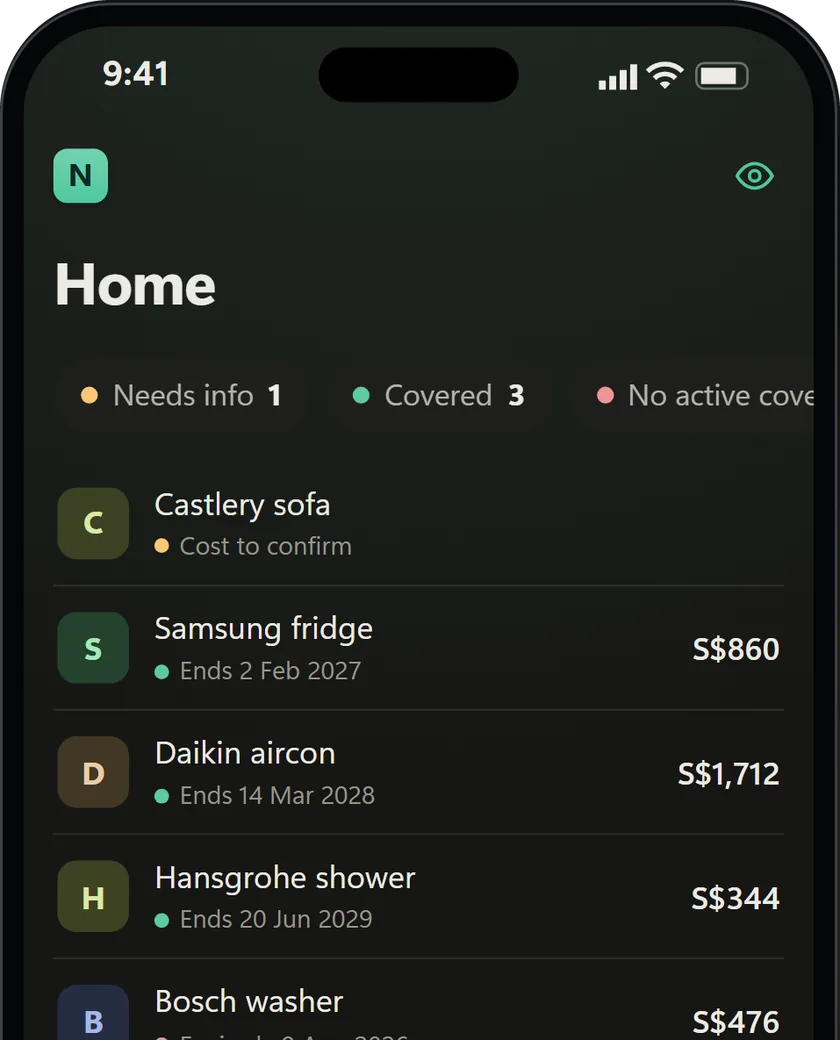
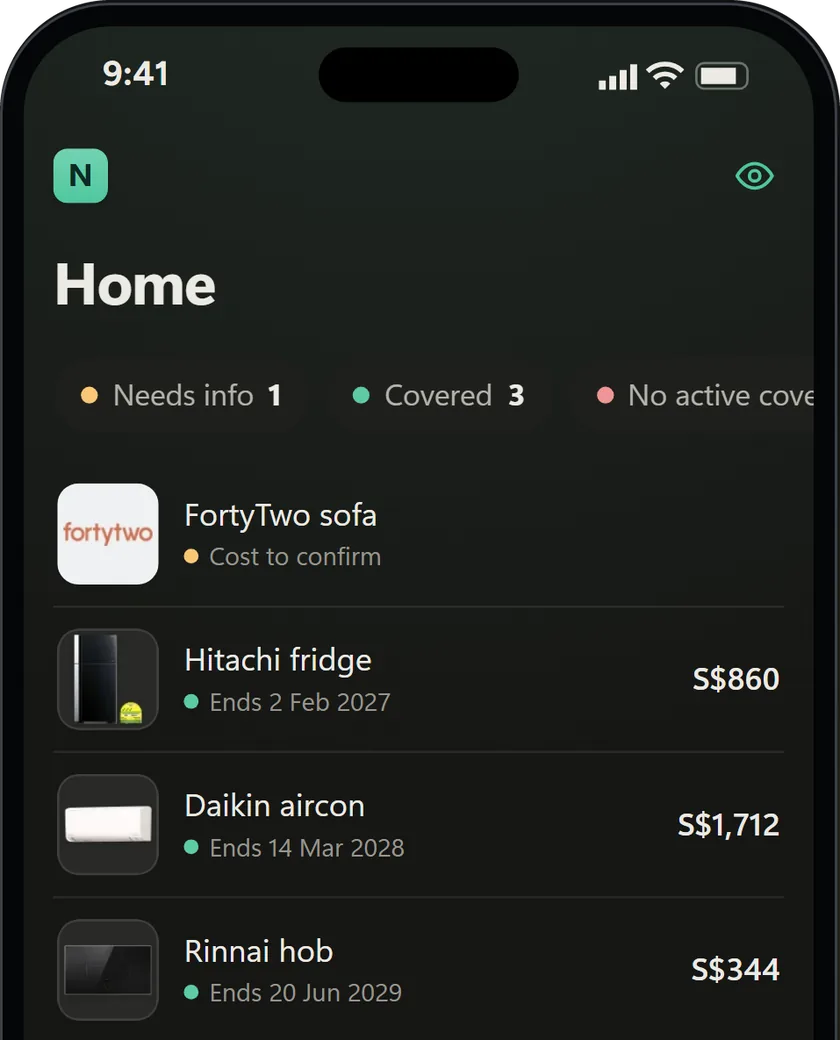
Finance demo: Home lists the owner's own brands with his tracker's pictures

diff --git a/assets/js/projects.js b/assets/js/projects.js
@@ -689,11 +689,11 @@ const ALL = CATS.concat(FLAG).flatMap(c => c.tx).sort((a, b) => b.day - a.day);
 /* Per person: premiums, cash %, policies, past, shortfall; cover needed and in force (S$k) for death, TPD, CI. */
 const INS = [[1296, 58, 4, '1 past', 'S$60k on critical illness', 240, 260, 240, 260, 120, 60], [872, 71, 3, 'none past', 'S$40k on death and S$40k on TPD', 160, 120, 160, 120, 100, 100]];
 /* Home register; state 1 needs info, 2 covered, 3 no active cover. */
-const HOME = rows('Castlery sofa|1|Cost to confirm|;Samsung fridge|2|Ends 2 Feb 2027|S$860;Daikin aircon|2|Ends 14 Mar 2028|S$1,712;Hansgrohe shower|2|Ends 20 Jun 2029|S$344;Bosch washer|3|Expired · 9 Aug 2026|S$476');
+const HOME = rows('FortyTwo sofa|1|Cost to confirm|;Hitachi fridge|2|Ends 2 Feb 2027|S$860;Daikin aircon|2|Ends 14 Mar 2028|S$1,712;Rinnai hob|2|Ends 20 Jun 2029|S$344;Bosch washer|3|Expired · 9 Aug 2026|S$476');
 
 const row = (attrs, cls, ico, title, sub, end, tag = 'button') => `<${tag} class="f-row ${cls}" ${attrs}><span class="f-ico">${icon(ico)}</span><span class="f-rt"><span>${title}</span><span>${sub}</span></span>${end}${tag < 'c' ? icon('right', 'f-chev') : ''}</${tag}>`;
 const info = (ico, title, sub, end) => row('', '', ico, title, sub, `<span class="f-rv">${end}</span>`, 'div');
-const LOGO = 'Grab Foodpanda Klook Steam SimplyGo Ya Trip'.split(' ');
+const LOGO = 'Grab Foodpanda Klook Steam SimplyGo Ya Trip FortyTwo Hitachi Daikin Rinnai Bosch'.split(' ');
 const line = (cls, who, sub, end, tag = 'div') => `<${tag} class="f-tr ${cls}"><span class="f-ini" style="--h:${[...who].reduce((a, ch) => (a * 31 + ch.charCodeAt(0)) % 360, 7)};--i:${LOGO.findIndex(n => who.startsWith(n))}" aria-hidden="true">${who[0]}</span><span class="f-tn"><span>${who}</span><span>${sub}</span></span><span class="f-ta">${end}</span></${tag.slice(0, 6)}>`;
 const txs = list => `<div>${list.map((r, i) =>
 	(i && list[i - 1].day === r.day ? '' : `<div class="f-day">${'Sun Mon Tue Wed Thu Fri Sat'.split(' ')[new Date(2026, 9, r.day).getDay()]} ${r.day} Oct</div>`) +

diff --git a/projects.html b/projects.html
@@ -206,7 +206,7 @@
 					</div>
 					<section class="app-more" aria-labelledby="finance-more"><h3 id="finance-more">More features.</h3><ul>
 						<li><p><strong>Where our cover falls short</strong>Our policies against rule-of-thumb cover for death, TPD and critical illness, shortfall first.</p><img src="images/projects/finance-insurance.webp" alt="Sample Insurance screen for Nicholas: cover short S$60k on critical illness. Death and TPD are covered; the critical illness bar is half full, short S$60,000." width="840" height="1040" loading="lazy" decoding="async"></li>
-						<li><p><strong>Every appliance and its warranty</strong>Each item&#8217;s cost and warranty end, with a missing price or receipt flagged.</p><img src="images/projects/finance-home.webp" alt="Sample Home register: one item needs info, three are covered, one has no active cover. A sofa&#8217;s cost is still to confirm; a fridge and an aircon show their warranty end dates and prices." width="840" height="1040" loading="lazy" decoding="async"></li>
+						<li><p><strong>Every appliance and its warranty</strong>Each item&#8217;s cost and warranty end, with a missing price or receipt flagged.</p><img src="images/projects/finance-home.webp" alt="Sample Home register: one item needs info, three are covered, one has no active cover. A FortyTwo sofa&#8217;s cost is still to confirm; a Hitachi fridge and a Daikin aircon show their pictures, warranty end dates and prices." width="840" height="1040" loading="lazy" decoding="async"></li>
 						<li><p><strong>Broker gains that tally</strong>Gains from the broker&#8217;s own statements, net of deposits; the import stops if they don&#8217;t add up.</p><img src="images/projects/finance-invest.webp" alt="Sample Investments screen: a S$51,360 portfolio up S$3,940 over the past year, with Interactive Brokers statements to 31 Oct 2026 marked numbers tally." width="840" height="1040" loading="lazy" decoding="async"></li>
 					</ul></section>
 				</article>

diff --git a/assets/css/projects.css b/assets/css/projects.css
@@ -489,6 +489,8 @@ to{box-shadow:0 0 0 9px #6ab2f200}
 .page-projects .f-finger{width:42px;height:42px;margin:-21px}
 .page-projects .f-day{background:#161614cc;-webkit-backdrop-filter:blur(16px);backdrop-filter:blur(16px)}
 .page-projects .f-ini:not([style*="i:-"]){background:#fff url(../../images/projects/finance-logos.webp) 0 calc(var(--i)*-34px)/34px;color:#0000}
+.page-projects .f-tr:is(.k1,.k2,.k3){grid-template-columns:48px minmax(0,1fr) auto}
+.page-projects :is(.k1,.k2,.k3)>.f-ini{height:48px;border-radius:10px;background-position:0 calc(var(--i)*-48px);background-size:48px;box-shadow:inset 0 0 0 1px #ffffff1a}
 .page-projects .f-cnt{display:flex;justify-content:space-between;align-items:baseline;margin-top:2px;color:var(--t3);font-size:13px;font-weight:600;text-transform:uppercase;letter-spacing:.04em}
 .page-projects .f-cnt b{color:var(--t);font-size:15px;text-transform:none;letter-spacing:0}
 .page-projects .sq-bk{width:70px;font-size:13px}

diff --git a/README.md b/README.md
@@ -284,7 +284,7 @@ Fragile behaviour the markup does not reveal. Read [`AGENTS.md`](AGENTS.md) firs
 - Desktop (981px and up) shows one project at a time (owner, 8 Nov 2026: "on desktop, shouldnt show all 4 projects at once. should show a carousell with a small animated thumbnail for those not in view"): a rail of four tabs (`.app-rail`, ARIA tabs, arrow/Home/End keys, `#id` deep links) sits above the chosen card, which puts a 90% phone beside its name and reasons. Each tab carries a thumbnail recorded from that demo's own preview; they play one at a time, in turn, and hovering a tab plays its own (owner: "all activating at once looks like a mess"); the playing one gets a ring in its app's accent. The carousel turns by itself (owner, 8 Nov 2026: "carousell should auto rotate to the next one"): a bar fills under the chosen tab (9, 8, 12.5 and 10 s, long enough for each preview and its result), pausing while the pointer is over the rail or card or the phone is not fully on screen; then the next app shows, its preview replays, and the next app's thumbnail plays as "up next". A tab click, arrow key, or a tap or key in a demo stops it for good; reduced motion never starts it (`images/projects/<app>.mp4`, 108x200 H.264, plus `-poster.webp`, per the site's MP4-plus-poster rule); the script attaches them on desktop only; reduced motion shows the posters. Phones keep all four cards stacked and download no thumbnails. Re-record the loops after changing a demo's preview (Playwright recordVideo of the phone at 2x, cropped and scaled with ffmpeg).
 - Each card opens with its kind, name and one-line description, then the demo, then three short reasons and the stack (8 Nov 2026: on phones the name used to arrive after a full phone of demo). On desktop the card's phone is scaled by `--ps` on `.app-grid` (owner, 8 Nov 2026: "the phones are way too big and need to scroll too much"). The skip link jumps past the demo to the reasons. Reasons state a decision, in plain first person where it fits, and must stay true to each app's own README; each bot carries one security or AI decision (IDs, not usernames; the AI suggests, a tap decides). Every app's reasons say why it beats what people already use, not how it works (owner, 9 Nov 2026: "nagbot features writeup on top is bad.. think harder of the benefits compared to other reminder apps. do the same for the rest"; earlier: "the value of the features are not there"): SquashBot against polls plus Splitwise (book by typing it; Splitwise without the typing; no app or account to join, with the Telegram-ID rule), Nag-bot against reminder apps (nags until it's done, quiet overnight; shared and fair, rotating chores to whoever did least; the AI suggests and a tap decides), Finance against aggregator and bank apps (no bank logins handed out, with read-only phones; catches card testing; every statement in one command), Packing against a checklist (counts that scale with the trip; Last call; two screens with no lost ticks). Each second line stays at about 70 characters so it holds one line at 1280px (owner: "brevity"). Finance leads with security, detection and automation (owner, 8 Nov 2026: "the selling point of totals dont add up is so lame"). Kind lines say Self-hosted, never "Runs on my PC" (owner: "sounds lame").
 - Each card has a working 300 x 560 sample demo (300 x 640 on desktop, nearer a real iPhone's shape now that one shows at a time; owner, 8 Nov 2026), a reset button and three short reasons. No app data files or real household/group details ship, with two exceptions: the owner's partner appears by her Telegram name DodgerBlueee in SquashBot (the visitor books as her) and on Nag-bot's leaderboard beside Nicholas (owner, 9 Nov 2026: "leaderbot for nagbot should be me and DodgerBlueee. its ok to put her name for suashbot too"). Finance keeps Alex as the second insured person, so invented cover gaps are not pinned on a real person. Finance has no Sample label (owner, 9 Nov 2026: "dont put the sample label on finance"), and its invented figures sit well below the owner's real ones: every amount was divided by 2.5 on 9 Nov 2026 (net worth S$194,480), except the three card-testing charges, which show the S$20 rule.
-- Demos look and behave like the real apps (8 Nov 2026 blind fidelity review; check against each app's source before changing one): SquashBot's chat has a squash-court wallpaper (`images/projects/squash-wallpaper.svg`: a calm dark field with a warm maple-floor glow and a glass-wall teal, and only the court's T in faint red; owner, 8 Nov 2026: a busier version with court lines and racket doodles was "quite ugly especially with so many chats", so keep it low-contrast with no pattern; boosted Telegram groups can set a wallpaper for all members), its pinned bar carries the real one-button Mini App link (🎾 Courts on the board, 🧾 Tab on the tab), the Mini App has the real Courts | Tab switch, Join/Leave/Full and the "You owe" card, typed bookings come from a group admin (the bot ignores members' free text), and replies accept short court names. The chat holds only what the real group shows (owner, 9 Nov 2026: "too many spam messages ... too much noise, hard to see value"): the pinned `📌 Court schedule` (bookings.js `renderBoard`: one line per court, `<b>C4</b>`, full courts struck through, one 🎾 Courts button; the bot's `↳ booked by` line is left out and the demo uses Courts 1–4 only, so "Which court?" is one row of four, and the chips have no label line above them (owner, 9 Nov 2026: "looks more cluttered than the acutal one. dont have the booked by dodgerblueee. Maybe just show 4 courts instead of 5 too")), edited in place, and the single "🙋 N slots left on Court X" post (announcements.js) for the nearest open court, deleted and reposted when a nearer court is booked. The confirm form is the booker's own; once saved it goes and the schedule and that post change instead, and a Join answers with a toast. The tab lives in the second pin and the Mini App, not in the chat. What the chat cannot show sits under the demo in a Paprika-style "More features." row (owner, 9 Nov 2026: "if we cannot squeeze all the features ... we can do it like paprika"): three cards, each a title, one line and the top of a phone screen rendered from the demo's own markup and CSS in the bot's own words (bookings.js `reminderHtml` "Squash today!" / "Squash in 2 hours!", the monthly `tabNoticeHtml` breakdown with tab.js charge lines, and the Courts Mini App), saved as `images/projects/squashbot-{remind,month,mini}.webp` (560 wide). Desktop puts the row across both grid columns under the card; phones scroll it sideways. Re-render them after changing the demo's look. Nag-bot's chat opens on the pinned 🐾 Chores board itself (owner, 9 Nov 2026: "nagbot doesnt show the pinned chore list - and everything is just done ... doesnt show the cute mocha and latte stickers"; dashboard.js `choreListHtml`: a lead line, then emoji, bold chore and italic cadence per chore, under one 🐾 Chores Mini App button), and the board, the pinned bar and the Mini App draw from one status list, so Done, snooze, delete and Undo redraw all three; tapping the pinned bar scrolls to the board and flashes it. Each nag comes with a cut-out sticker from the live LatteMocha2 pack (owner, 9 Nov 2026: the square photos in stickers-data.js were "not as cute as the actual one"; the pack is backed up in nag-bot's `assets/stickers/` with each sticker's cat tag), and the line names the cat on it as nag.js `NAG_LINES` does: a wide-eyed Mocha with "Mocha is watching you. Unblinking. 👀" (`images/projects/nag-sticker-nag.webp`); Done takes that sticker down and sends a heart-eyed Latte beside the receipt ("Latte purrs approvingly.", `nag-sticker-done.webp`; both paths stay literal in projects.js, because the build publishes only images whose full path it can find in the built files), Delete and Hide take it down, and Undo and Not done send none. Dates use the bot's fmtWhen ("in 2 days · Tue 9:00 PM"), the snooze cap refuses on Snooze itself, and Undo after a delete edits the log to "Restored". The chat scrolls with a hidden scrollbar and opens at the newest message. Finance has five phone tabs of the owner's copy (Overview, Wealth, Insurance, Home, Activity; Split left out at the owner's request, 8 Nov 2026; no Travel, as in the tracker's CLAUDE.md; owner, 8 Nov 2026: "too few tabs. it doesnt show the depth of the actual"), each a short page in the app's own words: Wealth's Income | Net worth | Investments switch (income outlook and long-range forecast, the net-worth chart, IBKR's "✓ numbers tally"), Insurance one insured person per sub-tab with "Where the cover falls short", Home's register with Needs info / Covered / No active cover filters and warranty dates, and Activity's Transactions | Games. The Overview keeps its source-check line ("186 rows checked against their statements") and Needs attention first; the flagged charges open the app's own check drawer ("Medium priority check", the risk_checks.py reason, "This is an anomaly, not a fraud verdict.") with "I recognize this" disabled because a paired phone is a read-only copy. Hide amounts masks the net worth, the statement tiles and all of Wealth, as the app's privacy.js does (premiums, bills and transactions stay readable). Finance is laid out at an iPhone's 375px and drawn at 0.8 inside the 300px screen (status and home bars kept full size), so it keeps the real app's proportions and its own sizes: 28px titles, 15px rows, the 52px header on the page's green top glow, the segmented control's lighter #4a4a46 choice, 20px tile figures, Home's filter pills (scrolling sideways as in the app) and frosted day headers (owner, 9 Nov 2026: "the finance app mockup doesnt seem as good as the actual app"). It uses the app's system font stack (Segoe UI Variable on Windows, SF on Apple), not Figtree. Activity matches the app's phone list (owner: "where are the logos and the polish like the actual app? E.g for grab"): "26 CARD TRANSACTIONS · S$1,049 spent", charges as −S$, and merchant logos from the tracker's own `app/assets/merchant-logos` (Grab and GrabFood, Foodpanda, Klook, Steam, SimplyGo's transit icon, Ya Kun, Trip.com) in one 102px-a-cell sprite, `images/projects/finance-logos.webp`, indexed by `LOGO` in `projects.js`; other merchants keep the initials tile, as the app does. Gojek's source is 32px and blurred when enlarged, so it keeps initials. Packing's tabs carry the list names and ✎ Defaults, Hide packed and Last call survive switching lists, and the demo opens on a trip already under way (7 of 20 packed) so the per-category counts and bars read at a glance (owner: "Looks pretty lame that its empty"); the app has no dashboard by design (PRODUCT.md).
+- Demos look and behave like the real apps (8 Nov 2026 blind fidelity review; check against each app's source before changing one): SquashBot's chat has a squash-court wallpaper (`images/projects/squash-wallpaper.svg`: a calm dark field with a warm maple-floor glow and a glass-wall teal, and only the court's T in faint red; owner, 8 Nov 2026: a busier version with court lines and racket doodles was "quite ugly especially with so many chats", so keep it low-contrast with no pattern; boosted Telegram groups can set a wallpaper for all members), its pinned bar carries the real one-button Mini App link (🎾 Courts on the board, 🧾 Tab on the tab), the Mini App has the real Courts | Tab switch, Join/Leave/Full and the "You owe" card, typed bookings come from a group admin (the bot ignores members' free text), and replies accept short court names. The chat holds only what the real group shows (owner, 9 Nov 2026: "too many spam messages ... too much noise, hard to see value"): the pinned `📌 Court schedule` (bookings.js `renderBoard`: one line per court, `<b>C4</b>`, full courts struck through, one 🎾 Courts button; the bot's `↳ booked by` line is left out and the demo uses Courts 1–4 only, so "Which court?" is one row of four, and the chips have no label line above them (owner, 9 Nov 2026: "looks more cluttered than the acutal one. dont have the booked by dodgerblueee. Maybe just show 4 courts instead of 5 too")), edited in place, and the single "🙋 N slots left on Court X" post (announcements.js) for the nearest open court, deleted and reposted when a nearer court is booked. The confirm form is the booker's own; once saved it goes and the schedule and that post change instead, and a Join answers with a toast. The tab lives in the second pin and the Mini App, not in the chat. What the chat cannot show sits under the demo in a Paprika-style "More features." row (owner, 9 Nov 2026: "if we cannot squeeze all the features ... we can do it like paprika"): three cards, each a title, one line and the top of a phone screen rendered from the demo's own markup and CSS in the bot's own words (bookings.js `reminderHtml` "Squash today!" / "Squash in 2 hours!", the monthly `tabNoticeHtml` breakdown with tab.js charge lines, and the Courts Mini App), saved as `images/projects/squashbot-{remind,month,mini}.webp` (560 wide). Desktop puts the row across both grid columns under the card; phones scroll it sideways. Re-render them after changing the demo's look. Nag-bot's chat opens on the pinned 🐾 Chores board itself (owner, 9 Nov 2026: "nagbot doesnt show the pinned chore list - and everything is just done ... doesnt show the cute mocha and latte stickers"; dashboard.js `choreListHtml`: a lead line, then emoji, bold chore and italic cadence per chore, under one 🐾 Chores Mini App button), and the board, the pinned bar and the Mini App draw from one status list, so Done, snooze, delete and Undo redraw all three; tapping the pinned bar scrolls to the board and flashes it. Each nag comes with a cut-out sticker from the live LatteMocha2 pack (owner, 9 Nov 2026: the square photos in stickers-data.js were "not as cute as the actual one"; the pack is backed up in nag-bot's `assets/stickers/` with each sticker's cat tag), and the line names the cat on it as nag.js `NAG_LINES` does: a wide-eyed Mocha with "Mocha is watching you. Unblinking. 👀" (`images/projects/nag-sticker-nag.webp`); Done takes that sticker down and sends a heart-eyed Latte beside the receipt ("Latte purrs approvingly.", `nag-sticker-done.webp`; both paths stay literal in projects.js, because the build publishes only images whose full path it can find in the built files), Delete and Hide take it down, and Undo and Not done send none. Dates use the bot's fmtWhen ("in 2 days · Tue 9:00 PM"), the snooze cap refuses on Snooze itself, and Undo after a delete edits the log to "Restored". The chat scrolls with a hidden scrollbar and opens at the newest message. Finance has five phone tabs of the owner's copy (Overview, Wealth, Insurance, Home, Activity; Split left out at the owner's request, 8 Nov 2026; no Travel, as in the tracker's CLAUDE.md; owner, 8 Nov 2026: "too few tabs. it doesnt show the depth of the actual"), each a short page in the app's own words: Wealth's Income | Net worth | Investments switch (income outlook and long-range forecast, the net-worth chart, IBKR's "✓ numbers tally"), Insurance one insured person per sub-tab with "Where the cover falls short", Home's register with Needs info / Covered / No active cover filters and warranty dates, and Activity's Transactions | Games. The Overview keeps its source-check line ("186 rows checked against their statements") and Needs attention first; the flagged charges open the app's own check drawer ("Medium priority check", the risk_checks.py reason, "This is an anomaly, not a fraud verdict.") with "I recognize this" disabled because a paired phone is a read-only copy. Hide amounts masks the net worth, the statement tiles and all of Wealth, as the app's privacy.js does (premiums, bills and transactions stay readable). Finance is laid out at an iPhone's 375px and drawn at 0.8 inside the 300px screen (status and home bars kept full size), so it keeps the real app's proportions and its own sizes: 28px titles, 15px rows, the 52px header on the page's green top glow, the segmented control's lighter #4a4a46 choice, 20px tile figures, Home's filter pills (scrolling sideways as in the app) and frosted day headers (owner, 9 Nov 2026: "the finance app mockup doesnt seem as good as the actual app"). It uses the app's system font stack (Segoe UI Variable on Windows, SF on Apple), not Figtree. Activity matches the app's phone list (owner: "where are the logos and the polish like the actual app? E.g for grab"): "26 CARD TRANSACTIONS · S$1,049 spent", charges as −S$, and merchant logos from the tracker's own `app/assets/merchant-logos` (Grab and GrabFood, Foodpanda, Klook, Steam, SimplyGo's transit icon, Ya Kun, Trip.com) in one 102px-a-cell sprite, `images/projects/finance-logos.webp`, indexed by `LOGO` in `projects.js`; other merchants keep the initials tile, as the app does. Gojek's source is 32px and blurred when enlarged, so it keeps initials. Home lists the owner's own brands with the pictures his tracker shows (owner, 9 Nov 2026: "home brand u can use my actual brands and just reuse the logo"): FortyTwo's logo on the app's #f0f1f2 logo tile, and Hitachi, Daikin, Rinnai and Bosch product pictures on its dark tile, 48px rows with a hairline edge, from the tracker's `manual/assets/home`; they are the sprite's last five cells. Prices and warranty dates stay invented. Packing's tabs carry the list names and ✎ Defaults, Hide packed and Last call survive switching lists, and the demo opens on a trip already under way (7 of 20 packed) so the per-category counts and bars read at a glance (owner: "Looks pretty lame that its empty"); the app has no dashboard by design (PRODUCT.md).
 - Every app card ends with a "More features." row (owner, 9 Nov 2026: "Yes, all three"): three strengths that are not already its reasons and that the chat or first screen cannot show, each a title of five words or fewer, one plain sentence checked against the real app's source, and an image rendered from the live demo (DPR 3, reduced motion, phone un-scaled, demo elements hidden in the render script when the point would fall below the crop, never drawn or edited by hand), cut by `featmask.py` to the top of the phone with transparent corners and saved as 840x1040 WebP under `images/projects/<app>-<name>.webp`, shown at up to 280px (owner, 9 Nov 2026: "the images also look a bit low res"). SquashBot: one reminder (owner: two near-identical reminders were "uncessary"), the Mini App's Tab with what you owe and each court behind it (owner: the chat's monthly notice "breaks into so many - unlike the actual tab on web app"), and the Courts Mini App. Nag-bot: the weekly leaderboard (stats.js), chores that reset together (nesting.js; "the shake" avoids the brand name in the real chore), vacation mode (`/pause all 14`, handlers.js). Finance: where the cover falls short (insurance-tab.js), the home register with warranties and Needs info (home.js; warranty reminders left out, as the tracker keeps expiries out of Coming up), and broker gains that tally (investments.js, import_ibkr.py; the POEMS import is not claimed). Packing: one master list in Defaults (each row's `ruleText()` rule and list chips), the Extended trip list with its cold-weather items, and Save and reload trips (`historyDialog()`, two sample entries in the app's exact formats); the Extended screen is a real demo state, while the Defaults page and the Trip history dialog exist only in the real app, so the render script injects them into the demo phone with every word and rule from packing's `app.js` and `data/seed.json`. The 9 Nov 2026 screenshot review set the bar for all twelve (owner: "squashbot still has a lot of spam, the web app doesnt take the full screen"): Mini Apps full screen, no pinned bars, sample chips or unrelated messages in a frame, and the feature's proof inside the crop. Type follows paprikaapp.com's measurements: headings 600 with -0.03em tracking and `text-wrap: balance`, 24px card titles, 15px card text in `#9da2a9`, 24px card padding and radius on `#1b1c1f` with a `#2d2f34` border, 18px gaps; reasons' second lines are kept to one line on desktop (owner, 9 Nov 2026: "ours has line spillovers").
 - Demos run entirely in memory. A guided preview starts once at 90% visibility after 500 ms of settled scrolling, one demo at a time. Taps and keys stop it; swipes re-arm it. Reduced motion skips previews. Once a preview ends, and until the reader touches that demo, its next action pulses three times (SquashBot's second sample, which asks for the court, Nag-bot's Chores button, Finance's first flagged charge, Packing's More nights). While the reader is using a demo that is on screen, no other preview starts for 8 s. Each preview must keep its result on screen (8 Nov 2026 review rounds): SquashBot scrolls the confirm form into view and holds it before Add booking; Nag-bot presses Done by about 2.5 s, shows the receipt and celebration sticker, then scrolls up to the board and flashes the litter box's new "in 42 days" line; Finance scrubs the chart, opens Needs attention, then a flagged charge's check, holds it and closes it, resting on the flagged charges; Packing folds Basics and Hygiene so the nights visibly recount the clothes, turns on Last call, unfolds Basics, ticks eSIM ("7 left") and taps Show everything, so More nights works at once. Non-booking text in SquashBot gets a toast rather than silence, and a sample chip leaves the row once sent until Start over (owner, 9 Nov 2026: sending "tmr c4 2100" again only booked the same court twice). On phones the caption and Start over sit left together, clear of the site's fixed Menu pill. Start over restores that demo only. Use flat scoped CSS for iOS 16; keep each phone and its reset visible together on phones.
 - Projects sits between Work and Skills. Only its route loads projects.css/projects.js; it shares Work's opening style. The 80 KB per-page JavaScript limit still applies; projects.js is budgeted at 69 KB, projects.css at 74 KB and the built projects.html at 46 KB (raised 8 Nov 2026 for the carousel and the finance tabs, and 9 Nov 2026 for the dark showcase, the two re-themed demos, Nag-bot's board and stickers, and the More features rows; the page's JavaScript stays under 80 KB). Archivo is self-hosted from the packing app's OFL font; see assets/fonts/archivo-SOURCES.md.
